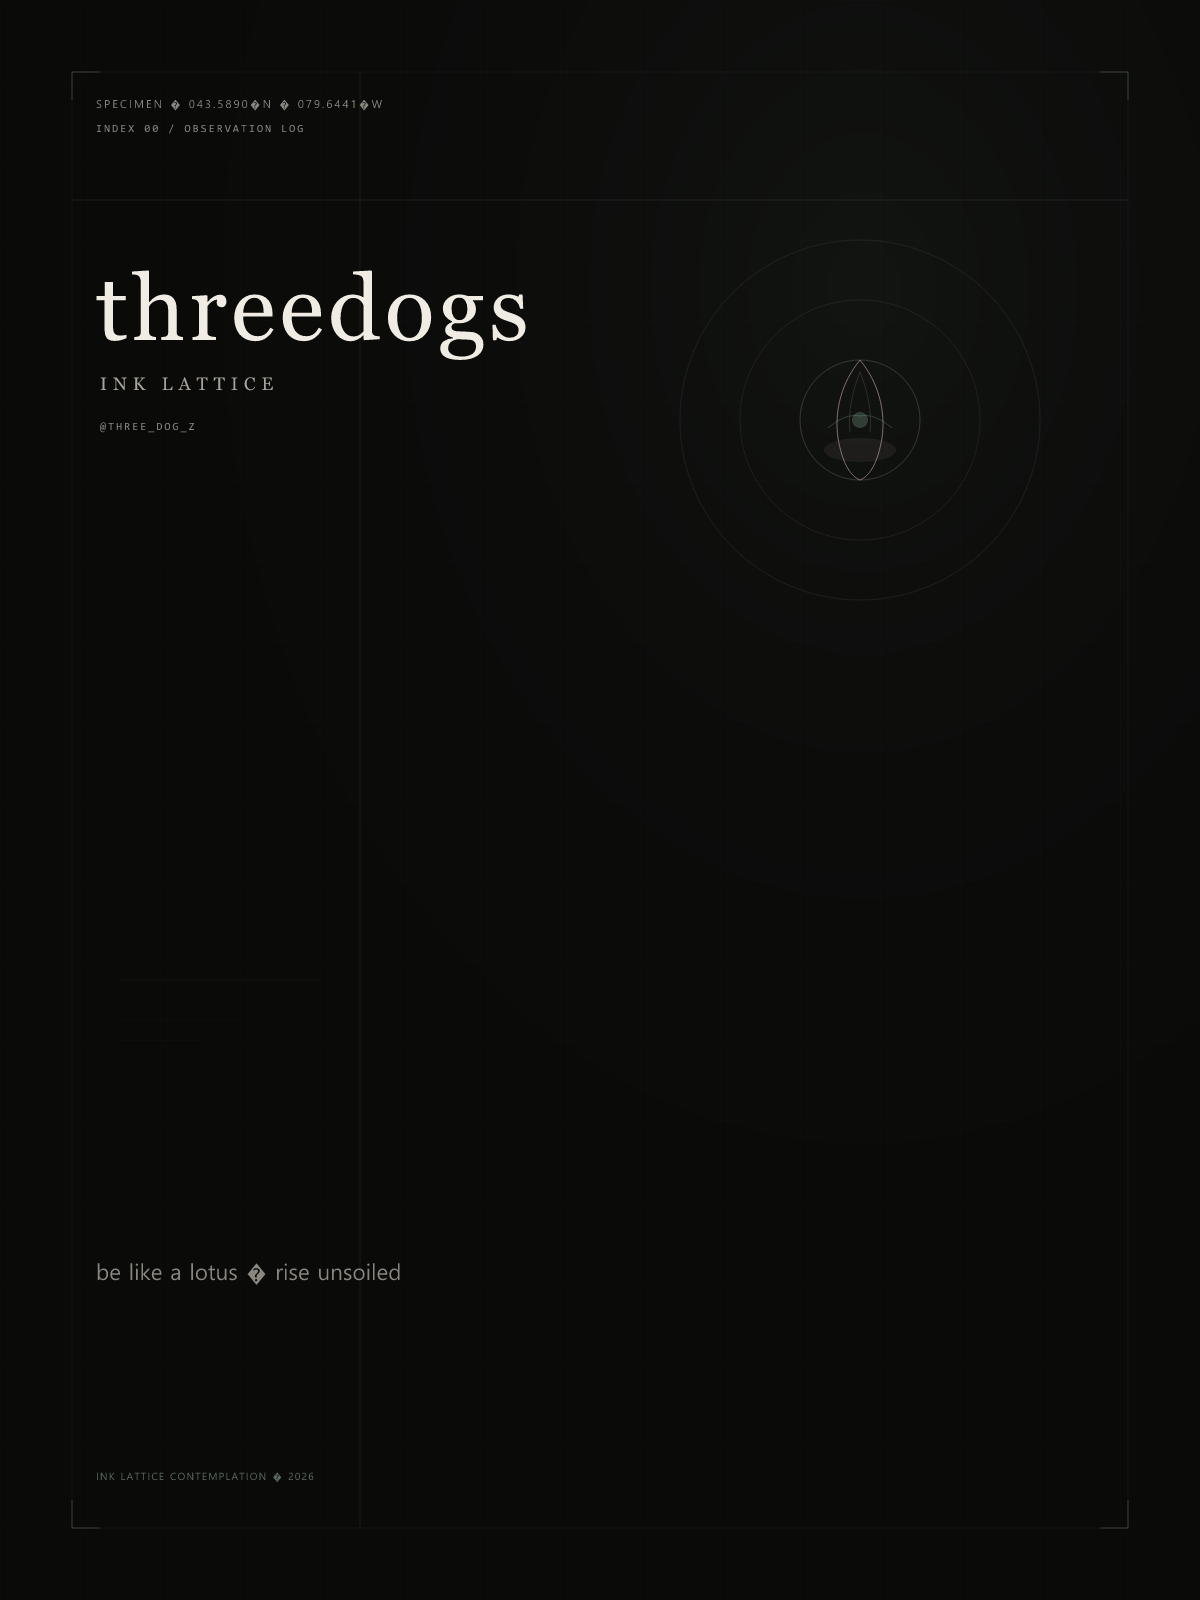
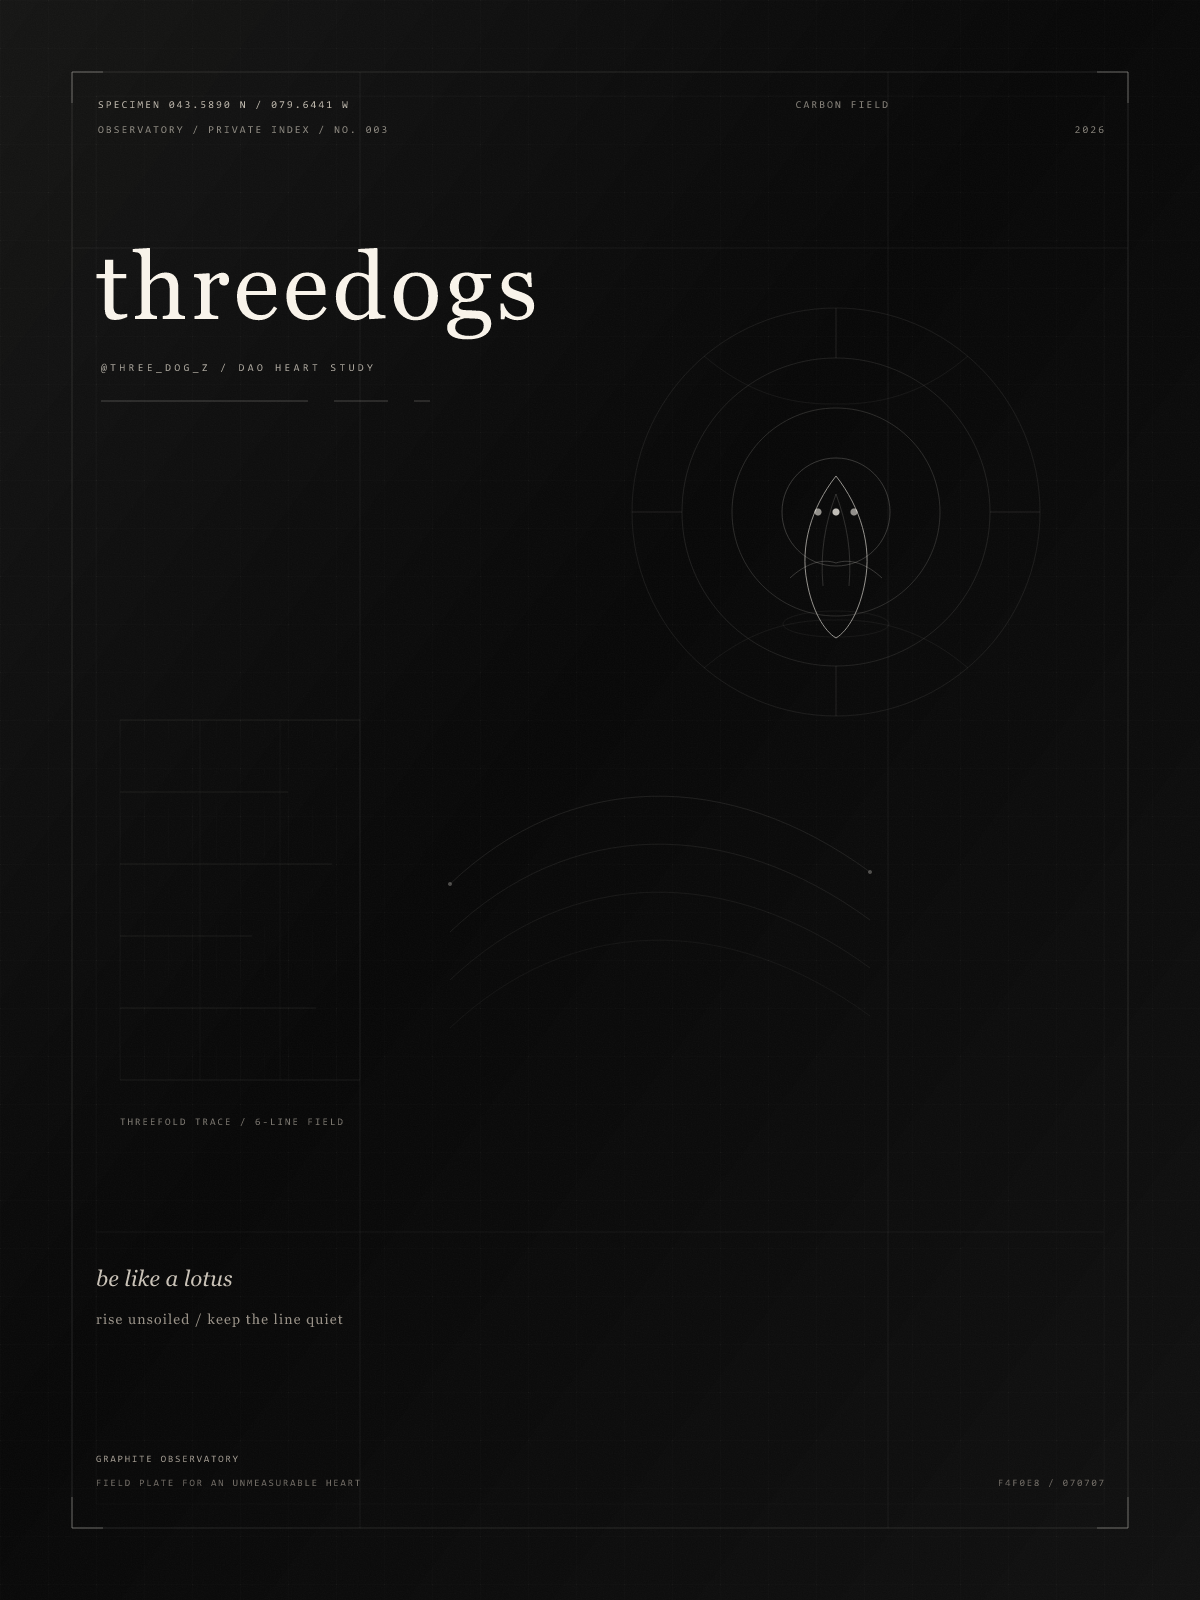
update monochrome theme and graphite design

diff --git a/css/style.css b/css/style.css
@@ -1,18 +1,21 @@
 /* threedogs — Ink Lattice Contemplation */
 
 :root {
-  --bg: #0a0a09;
-  --bg-elevated: #10100f;
-  --surface: #141413;
-  --text: #f0ebe3;
-  --text-muted: #8a8680;
-  --text-faint: #5c5a56;
-  --accent: #6b8f7a;
-  --accent-soft: #8aa894;
-  --rose: #c4a4a0;
-  --border: rgba(240, 235, 227, 0.07);
-  --border-strong: rgba(240, 235, 227, 0.14);
-  --mist: rgba(107, 143, 122, 0.06);
+  color-scheme: dark light;
+
+  --bg: #050505;
+  --bg-elevated: #101010;
+  --surface: #151515;
+  --text: #f4f4f4;
+  --text-muted: #a8a8a8;
+  --text-faint: #6a6a6a;
+  --accent: #f4f4f4;
+  --accent-soft: #d6d6d6;
+  --rose: #c4c4c4;
+  --border: rgba(244, 244, 244, 0.08);
+  --border-strong: rgba(244, 244, 244, 0.16);
+  --mist: rgba(244, 244, 244, 0.05);
+  --header-bg: linear-gradient(to bottom, rgba(5, 5, 5, 0.94) 55%, transparent);
 
   --font-display: "Noto Serif SC", Georgia, serif;
   --font-display-en: "Cormorant Garamond", Georgia, serif;
@@ -24,6 +27,26 @@
   --header-h: 5rem;
   --frame: clamp(1.5rem, 5vw, 4.5rem);
   --content: min(1080px, 100% - var(--frame) * 2);
+}
+
+@media (prefers-color-scheme: light) {
+  :root {
+    color-scheme: light;
+
+    --bg: #fafafa;
+    --bg-elevated: #f0f0f0;
+    --surface: #ffffff;
+    --text: #111111;
+    --text-muted: #555555;
+    --text-faint: #8a8a8a;
+    --accent: #111111;
+    --accent-soft: #333333;
+    --rose: #4a4a4a;
+    --border: rgba(17, 17, 17, 0.08);
+    --border-strong: rgba(17, 17, 17, 0.16);
+    --mist: rgba(17, 17, 17, 0.045);
+    --header-bg: linear-gradient(to bottom, rgba(250, 250, 250, 0.94) 55%, transparent);
+  }
 }
 
 *, *::before, *::after {
@@ -141,7 +164,7 @@ img, svg {
   justify-content: space-between;
   height: var(--header-h);
   padding: 0 var(--frame);
-  background: linear-gradient(to bottom, rgba(10, 10, 9, 0.94) 55%, transparent);
+  background: var(--header-bg);
 }
 
 .logo {

diff --git a/index.html b/index.html
@@ -3,6 +3,7 @@
 <head>
   <meta charset="UTF-8" />
   <meta name="viewport" content="width=device-width, initial-scale=1.0" />
+  <meta name="color-scheme" content="dark light" />
   <meta name="description" content="threedogs — 三流程序员，道心薄弱，不懂世事。Mississauga · 卦盘 · 代码。" />
   <meta name="author" content="threedogs" />
   <meta property="og:title" content="threedogs" />

diff --git a/design/ink-lattice-contemplation.md b/design/ink-lattice-contemplation.md
@@ -1,17 +1,19 @@
-# Ink Lattice Contemplation · 墨格静观
+# Graphite Observatory · 石墨观测
 
 ## Movement
 
-A visual philosophy where ephemeral human experience is documented with the clinical reverence of scientific observation — yet rendered through the material honesty of ink, paper, and breath.
+A visual philosophy where invisible experience is treated as a specimen worthy of slow observation: black, white, graphite, margin, breath, and measurement.
 
 ## Philosophy
 
-Space is not empty; it is the primary subject. Vast fields of warm darkness hold single gestures — a hairline, a coordinate, a lotus curve — each placed after countless refinements. Negative space does not frame content; it *is* the content. Every margin, every pause between elements, must feel like the product of deep expertise: painstaking attention to proportion, as if a master book designer spent hours adjusting a single column width by millimeters.
+Space carries the work before any mark appears. Large unbroken fields should feel expensive, not empty: the silence of archival paper, a gallery wall, a specimen drawer opened with care. Forms enter sparingly as calibrated interruptions — one axis, one orbit, one indexed trace — each placed with painstaking attention. The final object must look meticulously crafted, as if a master designer adjusted the distance between two hairlines for hours until the page finally began to breathe.
 
-Color operates as a restrained notation system. Warm ivory for presence. Charcoal and soot for depth. One accent — jade or dusted rose — appears only as a line, never a flood. Chromatic fields are avoided; meaning lives in value contrast and material temperature. The palette must feel intentional and cohesive, the result of meticulous calibration rather than decoration.
+Color is reduced to value, pressure, and material temperature. Use chalk white, bone, ash, graphite, carbon, and almost-black; avoid decorative chroma and the familiar synthetic gradients of generic digital art. Difference comes from density, opacity, grain, and edge quality rather than hue. This restraint must still feel deeply authored: a product of deep expertise, countless tonal tests, and master-level execution rather than default monochrome.
 
-Form communicates through systematic repetition. Grids, index markers, specimen labels, concentric rings, and patient accumulations of fine marks suggest an imaginary discipline studying something invisible — dao heart, market structure, the lotus rising from mud. Geometry is precise but never cold: Swiss formalism filtered through ink-wash meditation. Each alignment the work of master-level execution.
+Form behaves like evidence. Repeated ticks, coordinates, orbit rings, small catalog numbers, interrupted rules, and almost invisible grids imply an imaginary discipline mapping something human but unmeasurable. Geometry is exact without becoming sterile; it should carry the gravity of scientific plates, temple diagrams, and rare-book frontispieces. The craft must be obvious in the precision: crisp hairlines, deliberate asymmetry, and the kind of alignment that only comes from labored care.
 
-Typography whispers. Thin serifs, mono coordinates, single phrases positioned as catalog entries — never paragraphs competing with the visual field. Text is sparse, essential, integrated as artifact label. Words anchor what form and space already express. Hierarchy emerges from scale contrast: monumental silence beside microscopic reference numbers.
+Typography is an artifact label, not narration. Thin serifs and quiet monospace notes appear as tiny anchors inside the composition, while the page itself carries the meaning through scale and rhythm. Words should be few, exact, and spatially integrated: a name, a coordinate, a reference code, a phrase with the weight of a seal. Every letterform must feel selected, kerned, and positioned by someone at the top of their field.
 
-The final artifact must appear labored over with care — museum vitrine, not landing page. No bounce, no glow, no gradient gimmick. Motion, if any, is breath: slow fade, imperceptible drift. Craftsmanship is non-negotiable: crisp hairlines, flawless margins, nothing overlapping, everything contained with breathing room. This is the proof that something intangible can be mapped, studied, and held still through visual attention.
+Composition should balance a severe observational grid with a single private pulse. Let the hidden reference live quietly inside the structure — the threefold mark, the lotus curve, the northern coordinate, the fragile dao heart — never announced, only discoverable. The result should be 90% visual and 10% essential text, a museum object rather than a poster template.
+
+The final artifact must appear labored over with care: no glow tricks, no fashionable neon, no crowded decoration. It should reward sustained looking through tiny repeated marks, controlled voids, and flawless containment inside the page. Craftsmanship is non-negotiable: meticulous calibration, master-level execution, exact margins, no overlaps, no accidental color, and a surface that feels like it took countless hours to finish.